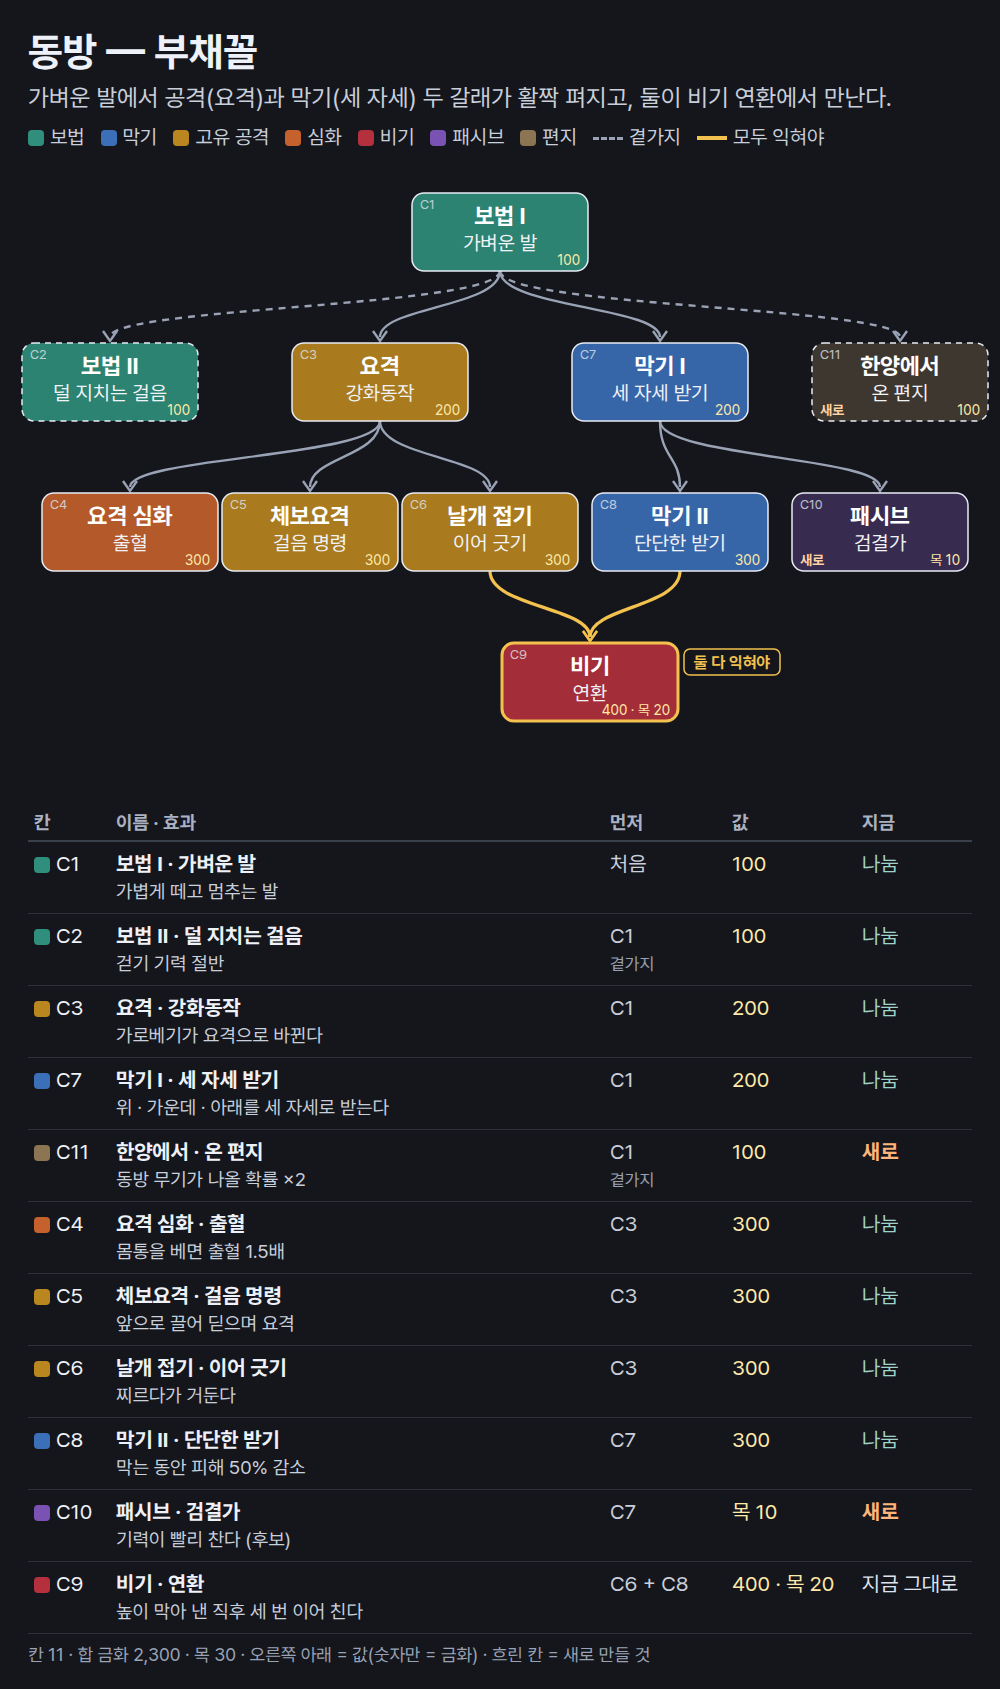
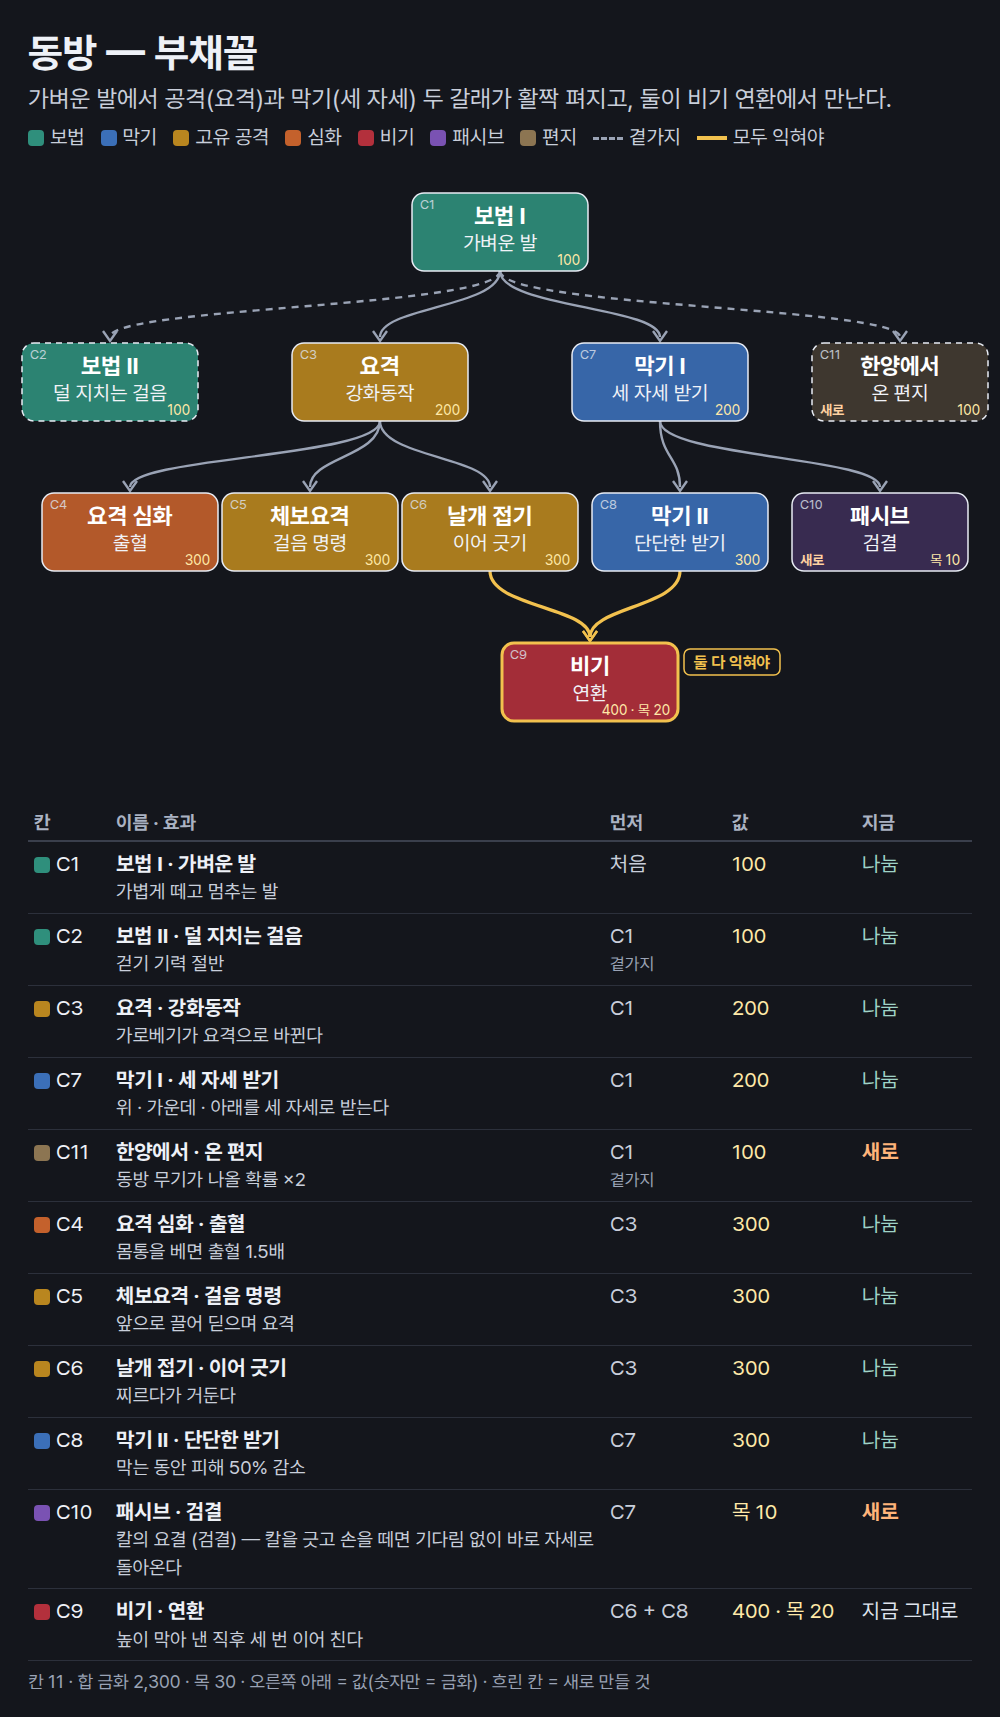
스킬트리 패시브 이름: 리네아 레타 · 켄타이 · 검결 (사장님 10/21 19:2x '켄타이, 리네아 레타, 검결로 해')
Claude-Session: https://claude.ai/code/session_014nJCzE4hyxiYc9innhSUng

diff --git a/docs/design/skill_tree_2026-10-21/README.md b/docs/design/skill_tree_2026-10-21/README.md
@@ -36,7 +36,7 @@
 - 값 (사장님 19:0x '00에서 온 편지는 금화 100으로. 패시브는 금화 소모 없이 목 10개로. 보법 심화는 금 100으로. 비기는 금화 400과 목 20개로'): 편지 금화 100 · 패시브 목 10(금화 없음) · 보법 II 금화 100 · 비기 금화 400 + 목 20 · 나머지는 깊이마다 금화 100 · 200 · 300 · 400(가안). 목 = 여정에서 상대 목을 베어 얻는 돈(lobby_progress.js awardHead — 스킬북 BOOK_HEAD_PRICE 자리).
 - 이미 산 책은 나눈 칸으로 옮긴다: 1급 보법 → 보법 I · II · 2급 막기 → 막기 칸 전부 · 3급 고유자세 → 고유 공격 · 심화 칸 전부 · 4급 패시브 → 패시브 · 5급 비기 → 비기(앞 칸이 없어도 열림).
 - AI 는 그대로(숙련도). 사람만 트리.
-- 새로 만들 것: 패시브 넷(독일 인데스 · 이탈리아 카바치오네 · 일본 잔신 · 동방 검결가 — 효과는 후보) · 일본 코테 심화(이점 미정 — 확인표 2107) · 편지 다섯 · 뽑기 규칙 · 대기실 판(지금 별자리 다섯 칸 → 트리 11 칸).
+- 새로 만들 것: 패시브 넷(독일 인데스 · 이탈리아 리네아 레타 · 일본 켄타이 · 동방 검결 — 효과는 후보 · 10/21 19:2x 이름 확정) · 일본 코테 심화(이점 미정 — 확인표 2107) · 편지 다섯 · 뽑기 규칙 · 대기실 판(지금 별자리 다섯 칸 → 트리 11 칸).
 
 ## 비기까지 최소 값 (19:0x 값으로 다시 셈)
 

diff --git a/docs/decisions.md b/docs/decisions.md
@@ -1291,3 +1291,4 @@
 - 19:0x "독일은 보법 심화를 익혀야 패시브를 익히고 패시브도 익혀야 최종 비기를 배울 수 있게" → 독일 트리: 보법 II → 패시브(인데스) → 비기(겹치기 + 왕관 + 패시브 셋 다) · 비기 최소 금화 1,800 → 2,400(9 칸)
 - 19:0x "00에서 온 편지는 금화 100으로. 패시브는 금화 소모 없이 목 10개로. 보법 심화는 금 100으로. 비기는 금화 400과 목 20개로" → 스킬트리 가안 값 반영 · 비기까지 최소: 이베리아 1,200 · 일본 1,400 · 동방 1,500 · 이탈리아 1,500 (목 20) · 독일 1,800 (목 30)
 - 19:1x "이베리아는 패시브를 익혀야 비기를 배울 수 있게 해. 이렇게 확정하자" → 이베리아 비기 = 손목 힘 + 둥근 걸음 탈류 + 이어 긋기 흐름 · 스킬트리 확정(docs/design/skill_tree_2026-10-21/ — 패시브 효과 · 나머지 칸 값은 가안)
+- 19:2x "켄타이, 리네아 레타, 검결로 해" → 패시브 이름: 이탈리아 곧은 선 (리네아 레타) · 일본 기다림과 침 (켄타이) · 동방 칼의 요결 (검결) — 트리 그림 · data.mjs 반영(효과 값은 가안 — 사장님 확인 전)
